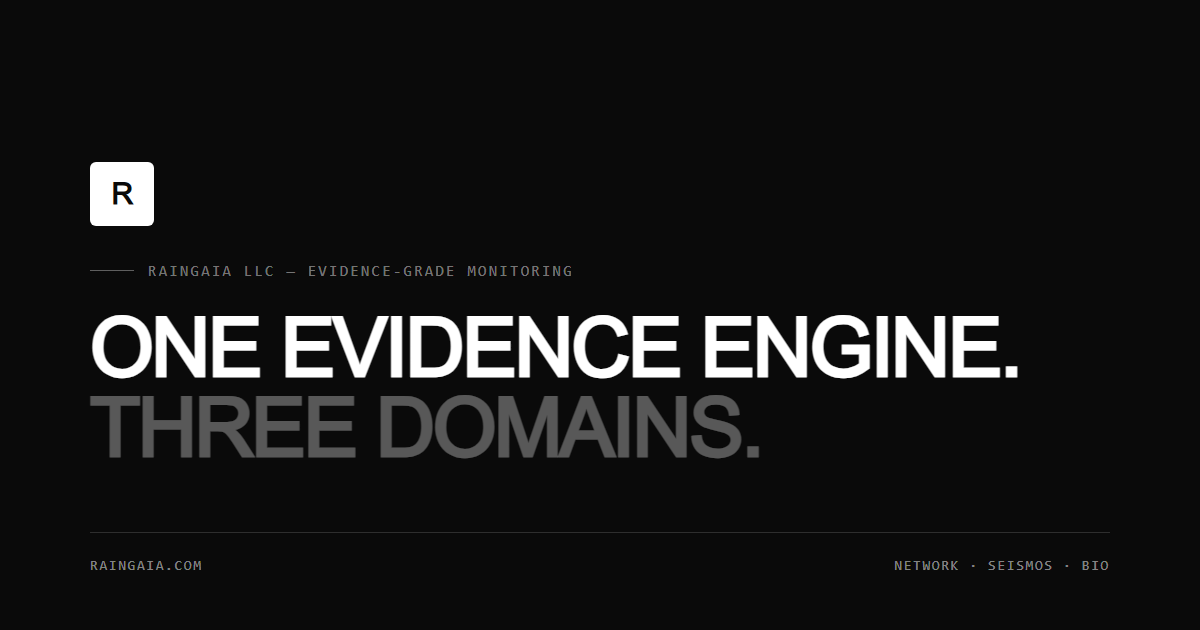
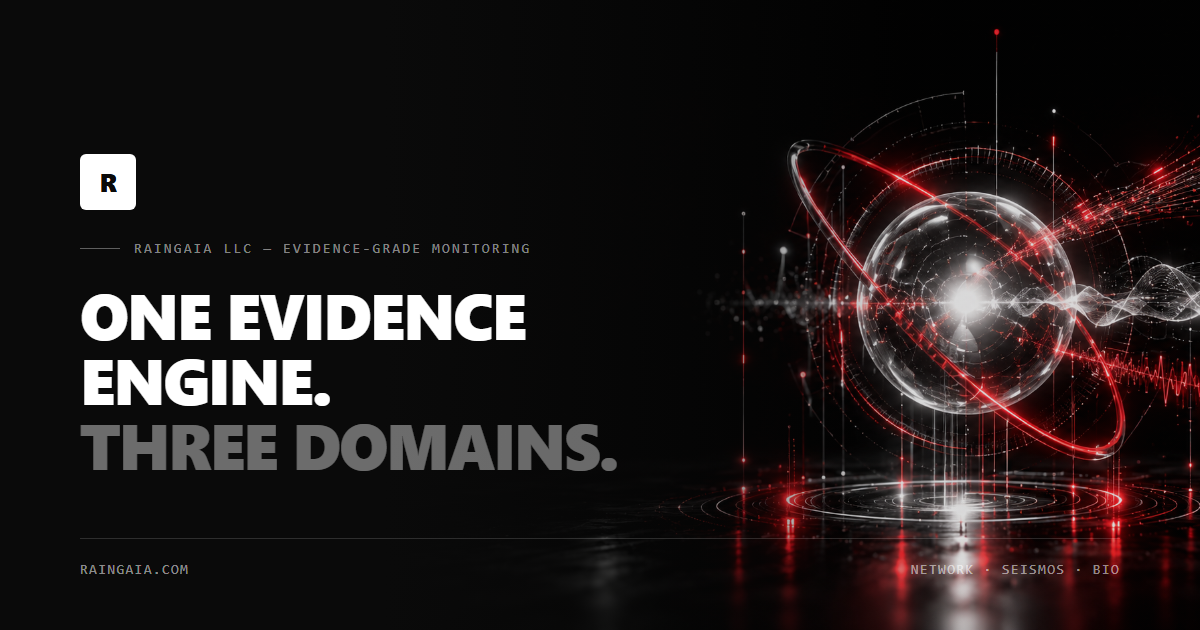
Add hero visual to homepage, rebuild og-image with real artwork
Places the new AI-generated evidence-engine visual (glowing sphere,
red data ring, network/structural/bioelectric waveforms) as an in-flow
image card below the homepage hero stats, and recomposites og-image.png
to use it as a background instead of a flat black card -- much richer
link previews on social/chat shares.

Changed region(s): [[0.0617, 0.2111, 1.0, 1.0], [0.0617, 0.2413, 0.1542, 0.3619]]

diff --git a/index.html b/index.html
@@ -69,7 +69,9 @@
     .mobile-toggle{display:none;background:none;border:none;font-size:22px;color:var(--ink);cursor:pointer}
 
     /* HERO — full-bleed black banner, AKQA-style oversized type */
-    .hero{background:var(--bg-ink);color:#fff;padding:80px 0 0;overflow:hidden}
+    .hero{background:var(--bg-ink);color:#fff;padding:80px 0 72px;overflow:hidden}
+    .hero-visual{position:relative;max-width:1080px;margin:48px auto 0;border-radius:16px;overflow:hidden;box-shadow:0 30px 80px rgba(0,0,0,.5)}
+    .hero-visual img{display:block;width:100%;height:auto}
     .hero-slogan{font-family:'IBM Plex Mono',monospace;font-size:11.5px;font-weight:500;letter-spacing:.16em;text-transform:uppercase;color:rgba(255,255,255,.45);margin-bottom:36px;display:flex;align-items:center;gap:14px}
     .hero-slogan::before{content:"";width:36px;height:1px;background:rgba(255,255,255,.35)}
     h1{margin:0;font-weight:800;font-size:clamp(52px,8.2vw,132px);line-height:0.94;letter-spacing:-.04em;color:#fff;text-transform:uppercase}
@@ -234,6 +236,9 @@
           <div class="stat"><strong>00</strong><span>Fixed thresholds</span></div>
           <div class="stat"><strong>100%</strong><span>Deterministic decisions</span></div>
           <div class="stat"><strong>FL</strong><span>Headquartered, United States</span></div>
+        </div>
+        <div class="hero-visual">
+          <img src="hero-visual.png" alt="An abstract glowing sphere encircled by a red data ring, with network, structural, and bioelectric signal waveforms radiating outward — one evidence engine, three domains" width="1671" height="941">
         </div>
       </div>
     </section>
